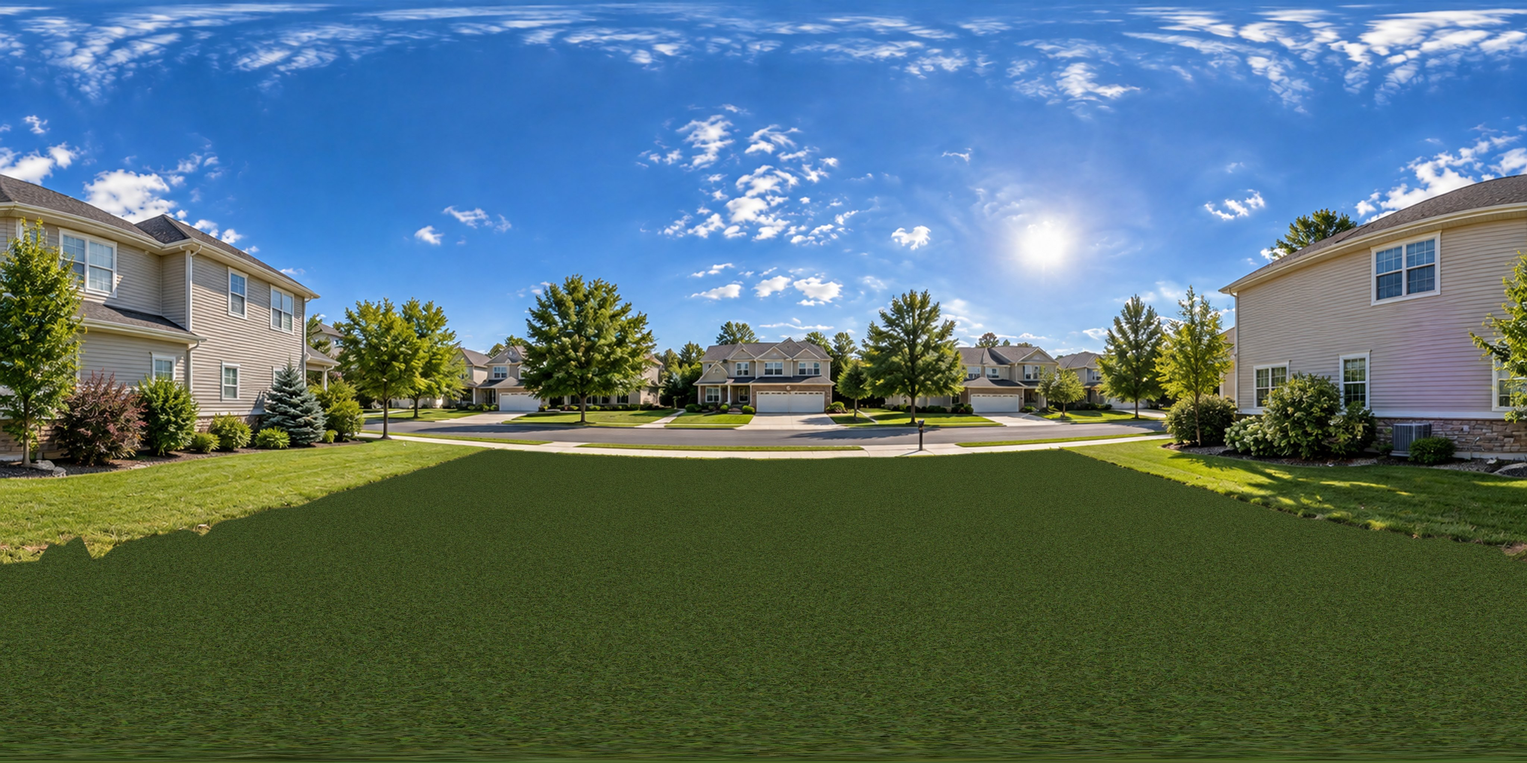
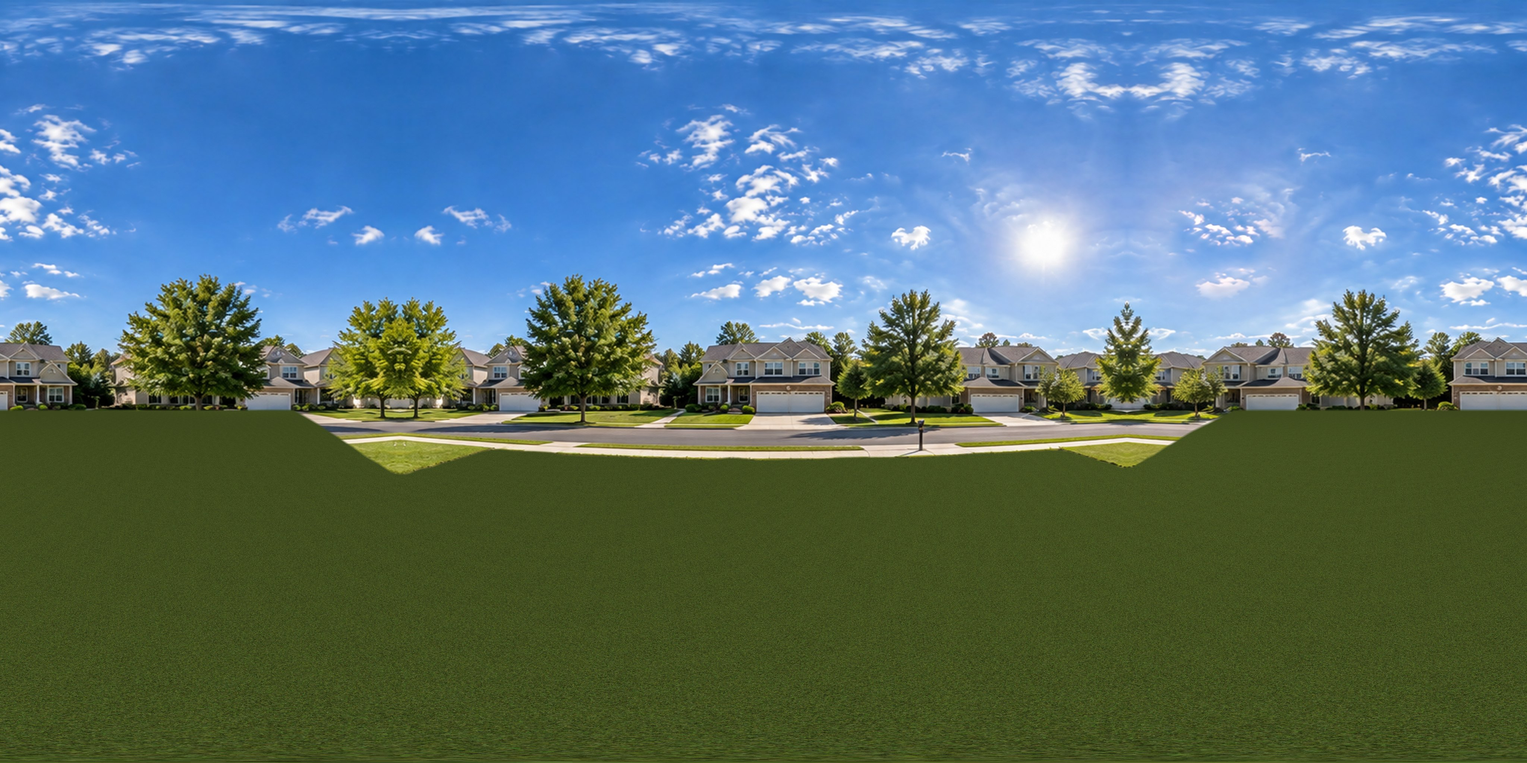
Backdrop: one straight street in front, life-size neighbours, nothing stretched
The panorama was projected on a sphere with a flat floor, which smeared the
houses beside the lot across the ground, put the street under the 3D lawn and
made the near neighbours loom over the house.

- New photo stage: the photo's ground lies flat at its true distance, and
  houses, trees and hedges stand upright where their bases are (groundEdge in
  backdrop.json), all at one scale (the photo's natural 3x, more for big
  houses) so nothing stretches.
- One straight street across the front with the houses across it; behind and
  beside the lot, lawn runs to the neighbouring houses (no second street).
- The street-facing half of the photo is mirrored to the back so the
  oversized side houses are gone; the copied sun is removed.
- The photo's own 8K ground is used near the house with a shadow layer, so
  the street and sidewalk stay visible and there is no lawn circle.
- The camera stays in front of the photo's houses in every direction.
- Backdrop processing scripts and notes live in scripts/backdrop.

Claude-Session: https://claude.ai/code/session_01TXP7QpBZQ5zp5Z5N19pwHL

diff --git a/website/web/backdrop.ts b/website/web/backdrop.ts
@@ -33,7 +33,7 @@ if(d.y<0.)sky=horizon;gl_FragColor=vec4(sky,1.);
 // {"image":"street-8k.jpg","mobileImage":"street-4k.jpg","height":5.5,"radius":320,"rotation":0,"ground":"lawn","credit":"…"}
 // height = camera height of the photo in feet, radius = how far its ground reaches, rotation in degrees;
 // ground "photo" keeps the photograph's own ground under the house (shadows only), "lawn" lays sod over it.
-type Photo={image:string,mobileImage?:string,height:number,radius:number,rotation:number,ground:'lawn'|'photo',groundTexture?:string,groundTile:number,groundRadius?:number,credit:string};
+type Photo={image:string,mobileImage?:string,height:number,radius:number,rotation:number,ground:'lawn'|'photo',groundTexture?:string,groundTile:number,groundRadius?:number,groundEdge?:[number,number][],lotEdge:number,scale:number,credit:string};
 let photoRequest:Promise<{spec:Photo,texture:T.Texture,sun:T.Vector3|null}|null>|null=null;
 let loadedPhoto:{spec:Photo,texture:T.Texture,sun:T.Vector3|null}|null=null;
 const environments=new WeakMap<T.WebGLRenderer,T.WebGLRenderTarget>();
@@ -41,7 +41,8 @@ function parsePhoto(raw:any):Photo|null{
  const file=(v:unknown)=>typeof v==='string'&&/^[\w.-]{1,80}\.(jpe?g|webp|png)$/i.test(v);
  const num=(v:unknown,lo:number,hi:number,fallback:number)=>typeof v==='number'&&Number.isFinite(v)&&v>=lo&&v<=hi?v:fallback;
  if(!raw||typeof raw!=='object'||!file(raw.image))return null;
- return {image:raw.image,mobileImage:file(raw.mobileImage)?raw.mobileImage:undefined,height:num(raw.height,1,40,5.5),radius:num(raw.radius,60,900,320),rotation:num(raw.rotation,-360,360,0),ground:raw.ground==='photo'?'photo':'lawn',groundTexture:file(raw.groundTexture)?raw.groundTexture:undefined,groundTile:num(raw.groundTile,1,100,14),groundRadius:typeof raw.groundRadius==='number'?num(raw.groundRadius,30,900,0)||undefined:undefined,credit:typeof raw.credit==='string'?raw.credit.slice(0,200):''};
+ const edge=Array.isArray(raw.groundEdge)&&raw.groundEdge.length>=3&&raw.groundEdge.length<=400&&raw.groundEdge.every((p:unknown)=>Array.isArray(p)&&p.length===2&&p.every(v=>typeof v==='number'&&Number.isFinite(v))&&p[0]>=0&&p[0]<=1&&p[1]>=1&&p[1]<=60)?[...raw.groundEdge].sort((a:number[],b:number[])=>a[0]!-b[0]!) as [number,number][]:undefined;
+ return {lotEdge:num(raw.lotEdge,1,60,17.5),scale:num(raw.scale,1,10,1.6),groundEdge:edge,image:raw.image,mobileImage:file(raw.mobileImage)?raw.mobileImage:undefined,height:num(raw.height,1,40,5.5),radius:num(raw.radius,60,900,320),rotation:num(raw.rotation,-360,360,0),ground:raw.ground==='photo'?'photo':'lawn',groundTexture:file(raw.groundTexture)?raw.groundTexture:undefined,groundTile:num(raw.groundTile,1,100,14),groundRadius:typeof raw.groundRadius==='number'?num(raw.groundRadius,30,900,0)||undefined:undefined,credit:typeof raw.credit==='string'?raw.credit.slice(0,200):''};
 }
 function requestPhoto(mobile:boolean){
  photoRequest??=fetch('/backdrop/backdrop.json',{cache:'no-cache'}).then(r=>r.ok?r.json():null).then(async raw=>{const spec=parsePhoto(raw);if(!spec)return null;
@@ -64,8 +65,54 @@ function photoSun(texture:T.Texture,rotation:number):T.Vector3|null{
 }
 function fadeMap(textures:T.Texture[],inner=.55){const cvs=document.createElement('canvas');cvs.width=cvs.height=256;const ctx=cvs.getContext('2d')!;const g=ctx.createRadialGradient(128,128,40,128,128,128);g.addColorStop(0,'#fff');g.addColorStop(inner,'#fff');g.addColorStop(1,'#000');ctx.fillStyle=g;ctx.fillRect(0,0,256,256);const t=new T.CanvasTexture(cvs);textures.push(t);return t;}
 
+/** Depression angle (degrees below the horizon) where the photo's ground ends at image column u: the base of
+ * the houses, trees and bushes in that direction. Linear between the measured points, wrapping around. */
+function groundEdgeAt(edge:[number,number][],u:number){u=((u%1)+1)%1;for(let i=0;i<edge.length;i++){const a=edge[i]!,b=edge[(i+1)%edge.length]!;const ub=i+1<edge.length?b[0]:b[0]+1;const uu=u<a[0]?u+1:u;if(uu>=a[0]&&uu<=ub)return a[1]+(b[1]-a[1])*(uu-a[0])/Math.max(1e-6,ub-a[0]);}return edge[0]![1];}
+/** Panorama streets run at a constant angle below the horizon, which would lay the street in front of the
+ * lot out as an arc. Pushing each front direction out by 1/cos straightens it into one straight street across
+ * the front (the photo's front is +x before rotation); behind and beside the lot there is no street, and the
+ * stretch eases back to none at the rear. */
+function blockShape(dx:number,_dz:number){return dx>0?1/Math.max(dx,.4):1+1.5*(1+dx)**2;}
+/** A photo "stage": the panorama's ground lies flat at its true distance from the camera, and everything
+ * standing on it (houses, trees, hedges) rises on an upright wall where it actually stands, all scaled by one
+ * factor so nothing stretches. Seen from the photo's camera it is the photograph; from anywhere else the
+ * street stays on the ground and the neighbours stay upright. */
+function photoStage(texture:T.Texture,spec:Photo,scale:number,mobile:boolean){
+ const edge=spec.groundEdge!,h=spec.height*scale,cols=mobile?160:320,deg=Math.PI/180;
+ const rows:number[]=[];for(let b=-89.8;b<-32;b+=2)rows.push(b);for(let b=-32;b<14;b+=mobile?.5:.25)rows.push(b);for(let b=14;b<60;b+=2)rows.push(b);for(let b=60;b<=90.01;b+=3)rows.push(Math.min(b,89.9));
+ const pos:number[]=[],uv:number[]=[],index:number[]=[];
+ for(let i=0;i<=cols;i++){const u=i/cols,phi=u*Math.PI*2,dx=-Math.cos(phi),dz=-Math.sin(phi),tb=groundEdgeAt(edge,u)*deg,wall=h/Math.tan(tb),k=blockShape(dx,dz);
+  for(const b of rows){const beta=b*deg;let r:number,y:number;
+   if(beta<-tb){r=h/Math.tan(-beta);y=0;}
+   else if(b<=60){r=wall;y=h+wall*Math.tan(beta);}
+   else{const t=(b-60)/30;r=wall*(1-t);y=h+wall*Math.tan(60*deg)+wall*.6*t;}
+   // Ground and walls follow a rounded square so the streets run straight along the block; heights keep
+   // the photo's own distance so the houses keep their size.
+   pos.push(dx*r*k,y,dz*r*k);uv.push(u,.5+beta/Math.PI);}}
+ const n=rows.length;for(let i=0;i<cols;i++)for(let j=0;j<n-1;j++){const a=i*n+j,b=(i+1)*n+j;index.push(a,b,a+1,b,b+1,a+1);}
+ const geo=new T.BufferGeometry();geo.setAttribute('position',new T.Float32BufferAttribute(pos,3));geo.setAttribute('uv',new T.Float32BufferAttribute(uv,2));geo.setIndex(index);
+ const mesh=new T.Mesh(geo,new T.MeshBasicMaterial({map:texture,side:T.DoubleSide,fog:false}));mesh.rotation.y=spec.rotation*Math.PI/180;mesh.name='Photo surroundings';mesh.userData.backdrop=true;return mesh;
+}
+/** How far the photo's world reaches in a world direction (x, z), and the scale that keeps a lot clear of the
+ * street and the neighbours: the house's footprint plus a yard must fit inside the photo's own lot edge. */
+function stageFit(spec:Photo,site:{minX:number,minZ:number,maxX:number,maxZ:number}){
+ const edge=spec.groundEdge!,rot=spec.rotation*Math.PI/180,deg=Math.PI/180;
+ const uOf=(x:number,z:number)=>{const c=Math.cos(-rot),s=Math.sin(-rot);const lx=x*c+z*s,lz=-x*s+z*c;return ((Math.atan2(-lz,-lx)/(Math.PI*2))%1+1)%1;};
+ // The photo's own scale (its far houses life-size) is the floor; a big house pushes everything out further.
+ let scale=spec.scale;
+ for(let k=0;k<96;k++){const a=k/96*Math.PI*2,x=Math.cos(a),z=Math.sin(a);
+  const tx=x>1e-6?site.maxX/x:x<-1e-6?site.minX/x:Infinity,tz=z>1e-6?site.maxZ/z:z<-1e-6?site.minZ/z:Infinity;const need=Math.min(tx,tz)+10;
+  const u=uOf(x,z),ph=u*Math.PI*2,lot=spec.height*blockShape(-Math.cos(ph),-Math.sin(ph))/Math.tan(Math.max(groundEdgeAt(edge,u),spec.lotEdge)*deg);scale=Math.max(scale,need/lot);}
+ scale=Math.min(scale,8);
+ // A lone tree trunk standing nearer than the houses behind it shouldn't hold the camera back.
+ const open=(u:number)=>{let a=90;for(let k=-6;k<=6;k++)a=Math.min(a,groundEdgeAt(edge,u+k*.002));return a;};
+ const reach=(x:number,z:number)=>{const u=uOf(x,z),ph=u*Math.PI*2;return spec.height*scale*blockShape(-Math.cos(ph),-Math.sin(ph))/Math.tan(open(u)*deg);};
+ let far=0;for(let k=0;k<96;k++){const a=k/96*Math.PI*2;far=Math.max(far,reach(Math.cos(a),Math.sin(a)));}
+ return {scale,reach,far,lot:spec.height*scale/Math.tan(spec.lotEdge*deg)};
+}
+
 /** Lawn, hills and, once available, the installed photograph. `site` is the lot in world feet. */
-export function addSurroundings(scene:T.Scene,root:T.Object3D,o:{site:{minX:number,minZ:number,maxX:number,maxZ:number},groundY:number,mobile:boolean,textures:T.Texture[],grass:T.MeshStandardMaterial,renderer:T.WebGLRenderer,sky:T.Object3D,alive:()=>boolean,wake:(content?:boolean)=>void,onPhoto?:(sun:T.Vector3|null,radius:number)=>void}){
+export function addSurroundings(scene:T.Scene,root:T.Object3D,o:{site:{minX:number,minZ:number,maxX:number,maxZ:number},groundY:number,mobile:boolean,textures:T.Texture[],grass:T.MeshStandardMaterial,renderer:T.WebGLRenderer,sky:T.Object3D,alive:()=>boolean,wake:(content?:boolean)=>void,onPhoto?:(sun:T.Vector3|null,radius:number,reach?:(x:number,z:number)=>number)=>void}){
  const {groundY:gy,textures}=o;const group=new T.Group();group.name='Surroundings';root.add(group);
  const grassRepeat=(mat:T.MeshStandardMaterial,size:number)=>{for(const key of ['map','normalMap','roughnessMap'] as const){const t=(o.grass as any)[key] as T.Texture|null;if(t){const c=t.clone();c.repeat.set(size/4.59,size/4.59);textures.push(c);(mat as any)[key]=c;}}return mat;};
  // Painted fallback: a broad lawn with gentle color variation and smooth hills lost in the haze.
@@ -81,9 +128,13 @@ export function addSurroundings(scene:T.Scene,root:T.Object3D,o:{site:{minX:numb
  const usePhoto=(photo:{spec:Photo,texture:T.Texture,sun:T.Vector3|null})=>{if(!o.alive())return;
   // Neighbouring houses in the photo look life-size when its sphere is about as far away as they were from the
   // camera; a large design pushes the sphere out (and the lawn with it) far enough that the camera can frame the whole house.
-  const lot=o.site,sphere=Math.max(photo.spec.radius,Math.hypot(lot.maxX-lot.minX,lot.maxZ-lot.minZ)/2*5.4),grow=sphere/photo.spec.radius;
-  const box=new GroundedSkybox(photo.texture,photo.spec.height,sphere,o.mobile?64:128);box.position.y=gy+photo.spec.height-.01;box.rotation.y=photo.spec.rotation*Math.PI/180;box.name='Photo surroundings';box.userData.backdrop=true;(box.material as T.MeshBasicMaterial).fog=false;group.add(box);
-  const {minX,minZ,maxX,maxZ}=o.site,wide=photo.spec.groundRadius&&Math.min(photo.spec.groundRadius*grow,sphere*.95),cx=wide?0:(minX+maxX)/2,cz=wide?0:(minZ+maxZ)/2,radius=wide??Math.hypot(maxX-minX,maxZ-minZ)/2+60;
+  const lot=o.site,fit=photo.spec.groundEdge?stageFit(photo.spec,lot):null;
+  let sphere:number,grow:number;
+  if(fit){const stage=photoStage(photo.texture,photo.spec,fit.scale,o.mobile);stage.position.y=gy-.02;group.add(stage);sphere=fit.far;grow=1;}
+  else{sphere=Math.max(photo.spec.radius,Math.hypot(lot.maxX-lot.minX,lot.maxZ-lot.minZ)/2*5.4);grow=sphere/photo.spec.radius;
+   const box=new GroundedSkybox(photo.texture,photo.spec.height,sphere,o.mobile?64:128);box.position.y=gy+photo.spec.height-.01;box.rotation.y=photo.spec.rotation*Math.PI/180;box.name='Photo surroundings';box.userData.backdrop=true;(box.material as T.MeshBasicMaterial).fog=false;group.add(box);}
+  // On a stage the lawn covers only the lot, stopping short of the sidewalk so the street stays in view.
+  const {minX,minZ,maxX,maxZ}=o.site,wide=fit?fit.lot*.97:photo.spec.groundRadius&&Math.min(photo.spec.groundRadius*grow,sphere*.95),cx=wide?0:(minX+maxX)/2,cz=wide?0:(minZ+maxZ)/2,radius=wide??Math.hypot(maxX-minX,maxZ-minZ)/2+60;
   // The lot itself: the photo's ground stretches into a blur close to the camera, so a tiling texture of the
   // same ground (or a lawn) covers the lot and fades into the photograph; shadows fall on it either way.
   let pad:T.Material;
@@ -100,7 +151,7 @@ export function addSurroundings(scene:T.Scene,root:T.Object3D,o:{site:{minX:numb
   const disc=new T.Mesh(discGeometry,pad);disc.position.set(cx,gy+.01,cz);disc.receiveShadow=true;disc.name='Lot lawn';group.add(disc);
   painted.visible=false;o.sky.visible=false;scene.fog=null;
   let env=environments.get(o.renderer);if(!env){const pm=new T.PMREMGenerator(o.renderer);env=pm.fromEquirectangular(photo.texture);pm.dispose();env.texture.userData.persistent=true;environments.set(o.renderer,env);}
-  scene.environment=env.texture;scene.environmentIntensity=.9;scene.userData.photoEnvironment=true;scene.userData.photoBackdrop=true;scene.userData.photoSun=photo.sun;scene.userData.photoRadius=sphere;o.onPhoto?.(photo.sun,sphere);o.wake(true);};
+  scene.environment=env.texture;scene.environmentIntensity=.9;scene.userData.photoEnvironment=true;scene.userData.photoBackdrop=true;scene.userData.photoSun=photo.sun;scene.userData.photoRadius=sphere;scene.userData.photoReach=fit?.reach;o.onPhoto?.(photo.sun,sphere,fit?.reach);o.wake(true);};
  if(loadedPhoto)usePhoto(loadedPhoto);else requestPhoto(o.mobile).then(p=>{if(p)usePhoto(p);});
  return group;
 }

diff --git a/website/web/scene.ts b/website/web/scene.ts
@@ -34,7 +34,7 @@ const wallpapers=catalog.wallpapers;
 export function renderHouse(el:HTMLElement,payload:any){const {config,model:m,view,jump,frameRoof,frameOpening}=payload;const keys={current:new Set<string>()};let editTarget:any=null;
  const w=m.w,d=m.d,h=m.h,walk=view==='walk',cut=view==='dollhouse',frame=view==='framing',interior=m.interior,trimPackage=m.trimPackage,homeStyle=m.homeStyle;const walls:T.Box3[]=[];
  let renderer:T.WebGLRenderer;try{renderer=acquireRenderer(el);}catch{el.innerHTML='<div class="webgl-error">WebGL is unavailable in this browser. Use the floor plan and reports to continue.</div>';return;}T.Cache.enabled=false;renderer.shadowMap.enabled=true;renderer.shadowMap.type=T.PCFSoftShadowMap;renderer.toneMapping=T.ACESFilmicToneMapping;renderer.toneMappingExposure=1.05;renderer.setClearColor('#8abfe4');el.appendChild(renderer.domElement);
- let aimAtPhotoSun:((dir:T.Vector3|null)=>void)|null=null,limitOrbit:((radius:number)=>void)|null=null;
+ let aimAtPhotoSun:((dir:T.Vector3|null)=>void)|null=null,limitOrbit:((radius:number,reach?:(x:number,z:number)=>number)=>void)|null=null;
  const scene=new T.Scene();const skyDome=addSky(scene);
  // Render on demand: draw while the camera, keys or loads change something, then go idle. Shadows are
  // recomputed only when the scene's content changes, not every frame.
@@ -75,7 +75,7 @@ export function renderHouse(el:HTMLElement,payload:any){const {config,model:m,vi
  // A true entry stoop and walkway, grounded by real-time shadows.
  const character=m.character,shutterTone=shutterColor(config.colors.siding||'#cccccc');
  const front=m.walls.find((wall:any)=>wall.exterior&&wall.axis==='x'&&wall.z===0&&wall.openings.some((o:any)=>o.kind==='door'));const hasEntry=!!front;const frontDoor=front?.openings.find((o:any)=>o.kind==='door');const entry={at:frontDoor?front.x+frontDoor.at:w/2-1.5};if(hasEntry){box(entry.at+1.5,-.32,-2.5,Math.min(8,w*.65),.6,5,material('#a3a494',.85));box(entry.at+1.5,-.53,-10,4,.15,8,material('#8d9488',.95));}
- if(groundHere){const site=bounds||{minX:0,minZ:0,maxX:w,maxZ:d};addSurroundings(mainScene,scene,{site:{minX:site.minX-w/2,minZ:site.minZ-d/2,maxX:site.maxX-w/2,maxZ:site.maxZ-d/2},groundY:frame?-1.85:-.55,mobile:mobileGraphics(),textures,grass:ground,renderer,sky:skyDome,alive:()=>active,wake:(content=false)=>wake(content),onPhoto:(dir,radius)=>{aimAtPhotoSun?.(dir);limitOrbit?.(radius);}});}
+ if(groundHere){const site=bounds||{minX:0,minZ:0,maxX:w,maxZ:d};addSurroundings(mainScene,scene,{site:{minX:site.minX-w/2,minZ:site.minZ-d/2,maxX:site.maxX-w/2,maxZ:site.maxZ-d/2},groundY:frame?-1.85:-.55,mobile:mobileGraphics(),textures,grass:ground,renderer,sky:skyDome,alive:()=>active,wake:(content=false)=>wake(content),onPhoto:(dir,radius,reach)=>{aimAtPhotoSun?.(dir);limitOrbit?.(radius,reach);}});}
  const thickness=5.5/12,wh=cut?4.1:h;const tiledMaterial=(base:T.MeshStandardMaterial,length:number,height:number,start:number,bottom:number,tile:number)=>{const mat=base.clone();for(const key of ['map','normalMap','roughnessMap','bumpMap'] as const){const tx=base[key]?.clone();if(tx){tx.repeat.set(length/tile,height/tile);tx.offset.set(start/tile,bottom/tile);if((tx.image as any)?.width)tx.needsUpdate=true;mat[key]=tx;textures.push(tx)}}return mat;};const wallPaint=(length:number,height:number,start:number,bottom:number)=>tiledMaterial(paint,length,height,start,bottom,3.28);
 
  function wallBox(wall:Wall,start:number,length:number,bottom:number,height:number){
@@ -214,7 +214,12 @@ export function renderHouse(el:HTMLElement,payload:any){const {config,model:m,vi
  envScale=applyLook(style,{scene,renderer,sun,hemi,ambient,sky:skyDome,glass,span,h,groundY:frame?-1.85:-.55,indoor:walk,site:{minX:site.minX-w/2,minZ:site.minZ-d/2,maxX:site.maxX-w/2,maxZ:site.maxZ-d/2}});scene.environmentIntensity*=envScale;
  if(mainScene.userData.photoSun)aimAtPhotoSun(mainScene.userData.photoSun);
  // The camera stays inside the photograph's sphere (outside it there is no backdrop to see).
- limitOrbit=(radius:number)=>{if(walk||!radius)return;const max=radius*.95;orbit.maxDistance=Math.min(orbit.maxDistance,max);const offset=camera.position.clone().sub(orbit.target);if(offset.length()>max){camera.position.copy(orbit.target).addScaledVector(offset.normalize(),max);orbit.update();}wake();};
+ // On a photo stage the camera stays in front of the photo's houses and trees: each direction has its own
+ // reach (the neighbours beside the lot are closer than the houses across the street).
+ let stageReach:((x:number,z:number)=>number)|null=null,clamping=false;
+ const clampToStage=()=>{if(!stageReach||walk||clamping)return;const p=camera.position,r=Math.hypot(p.x,p.z),lim=stageReach(p.x,p.z)*.9;if(r>lim&&r>1e-3){clamping=true;p.x*=lim/r;p.z*=lim/r;orbit.update();clamping=false;}};
+ orbit.addEventListener('change',clampToStage);
+ limitOrbit=(radius:number,reach?:(x:number,z:number)=>number)=>{if(walk||!radius)return;const max=radius*.95;orbit.maxDistance=Math.min(orbit.maxDistance,max);const offset=camera.position.clone().sub(orbit.target);if(offset.length()>max){camera.position.copy(orbit.target).addScaledVector(offset.normalize(),max);orbit.update();}stageReach=reach||null;clampToStage();wake();};
  const fx=payload.exportOnly?null:createPostFX(style,renderer,scene,camera,mobileGraphics());const raster=()=>{if(fx)fx.render();else renderer.render(scene,camera);};
  // Photoreal: a short burst of jittered frames (soft sun, anti-aliasing, contact shadows) blended when the
  // camera rests; the normal view is drawn while it moves.
@@ -224,7 +229,7 @@ export function renderHouse(el:HTMLElement,payload:any){const {config,model:m,vi
  let firstContent=true;
  const draw=()=>{if(contentDirty){refreshLook(style,scene);if(photo&&!firstContent)photo.contentChanged();firstContent=false;}contentDirty=false;
   if(photo){camera.updateMatrixWorld();if(!camera.matrixWorld.equals(lastView)){lastView.copy(camera.matrixWorld);photo.cameraMoved();raster();wake();return;}if(photo.render())wake();}else raster();};
- let firstFit=!walk&&!payload.cameraPose&&!frameOpening;const resize=()=>{if(!el.clientWidth||!el.clientHeight)return;renderer.setSize(el.clientWidth,el.clientHeight);fx?.setSize(el.clientWidth,el.clientHeight);photo?.setSize();camera.aspect=el.clientWidth/el.clientHeight;camera.updateProjectionMatrix();if(firstFit){fitHouseCamera(camera,orbit,m,config,view,el.clientWidth,el.clientHeight);firstFit=false;if(mainScene.userData.photoRadius)limitOrbit?.(mainScene.userData.photoRadius);}};const ro=new ResizeObserver(()=>{resize();wake();});orbit.addEventListener('change',()=>wake());
+ let firstFit=!walk&&!payload.cameraPose&&!frameOpening;const resize=()=>{if(!el.clientWidth||!el.clientHeight)return;renderer.setSize(el.clientWidth,el.clientHeight);fx?.setSize(el.clientWidth,el.clientHeight);photo?.setSize();camera.aspect=el.clientWidth/el.clientHeight;camera.updateProjectionMatrix();if(firstFit){fitHouseCamera(camera,orbit,m,config,view,el.clientWidth,el.clientHeight);firstFit=false;if(mainScene.userData.photoRadius)limitOrbit?.(mainScene.userData.photoRadius,mainScene.userData.photoReach);}};const ro=new ResizeObserver(()=>{resize();wake();});orbit.addEventListener('change',()=>wake());
  // Wheel zoom only after the visitor clicks into the 3D view (or holds Ctrl/⌘), so the page keeps scrolling.
  const hint=document.createElement('div');hint.className='scene-zoom-hint';hint.textContent='Click the model to zoom and pan with scroll · or hold Ctrl / ⌘';el.appendChild(hint);let hintTimer=0;orbit.enableZoom=walk;
  const engage=()=>{orbit.enableZoom=true;},disengage=()=>{orbit.enableZoom=false;},wheelGate=(e:WheelEvent)=>{if(e.ctrlKey||e.metaKey){orbit.enableZoom=true;return;}if(!orbit.enableZoom){hint.classList.add('show');clearTimeout(hintTimer);hintTimer=window.setTimeout(()=>hint.classList.remove('show'),1400);return;}

diff --git a/website/scripts/backdrop/lawn_lot.py b/website/scripts/backdrop/lawn_lot.py
@@ -1,0 +1,56 @@
+import numpy as np,sys
+from PIL import Image, ImageFilter
+src=Image.open(sys.argv[1]).convert('RGB');out_dir=sys.argv[2];prev=sys.argv[3]
+W,H=src.size;k=W//4096
+up=src  # full-resolution original: no resampling
+a=np.asarray(up).astype(np.float32)/255
+r,g,b=a[...,0],a[...,1],a[...,2];mx=a.max(-1);mn=a.min(-1);d=mx-mn+1e-6
+hue=np.where(mx==r,((g-b)/d)%6,np.where(mx==g,(b-r)/d+2,(r-g)/d+4))*60;sat=d/(mx+1e-6)
+dirtpx=(hue>10)&(hue<52)&(sat>.22)
+horizon=H//2
+start=np.zeros(W,np.float32)
+# The lot is the dirt that runs from some row down to the nadir: find, per column, the first row
+# below which the column stays dirt-coloured (ignores beige siding and stray brown patches).
+lo,hi=horizon+20,H-40
+for x in range(W):
+    col=dirtpx[lo:hi,x].astype(float);run=np.convolve(np.pad(col,12*k,mode='edge'),np.ones(25*k)/(25*k),mode='valid')
+    ok=run>0.55;tail=np.flip(np.cumprod(np.flip(ok)))  # rows from which everything below is dirt-ish
+    idx=np.where(tail>0)[0];start[x]=lo+(idx.min() if len(idx) else hi-lo)
+p=np.pad(start,30*k,mode='wrap');start=np.array([np.median(p[i:i+61*k]) for i in range(W)],np.float32)
+kk=np.ones(31*k)/(31*k);start=np.convolve(np.pad(start,(31*k//2,31*k-1-31*k//2),mode='wrap'),kk,mode='valid')-4*k
+# Behind and beside the lot (outside the street-facing span) there is no street: lawn runs from the lot up to
+# the neighbours' houses, whose bases sit about 6 degrees below the horizon. Ramp in over a few degrees.
+sa,sb=0.262,0.738;u=(np.arange(W)+.5)/W
+dout=np.minimum(np.abs(((u-sa+.5)%1)-.5),np.abs(((u-sb+.5)%1)-.5))
+inside=(u>sa)&(u<sb)
+ramp=np.where(inside,0.,np.clip(dout/0.07,0,1))**1.5
+far=horizon+6.4/180*H
+start=start*(1-ramp)+np.minimum(start,far)*ramp
+g=Image.open('public/materials/grass-diff.jpg').convert('RGB');gw=g.width
+mips=[np.asarray(g).astype(np.float32)/255]
+while mips[-1].shape[0]>8:
+    t=Image.fromarray((mips[-1]*255).astype(np.uint8));mips.append(np.asarray(t.resize((t.width//2,t.height//2),Image.LANCZOS)).astype(np.float32)/255)
+cam=5.5*3;tile=4.59
+ys=np.arange(horizon+1,H);xs=np.arange(W);phi=(xs+.5)/W*2*np.pi
+theta=((ys+.5)/H-.5)*np.pi;dist=cam/np.tan(theta)
+dx=-np.cos(phi);dz=-np.sin(phi);grass=np.zeros((len(ys),W,3),np.float32)
+for i,dd in enumerate(dist):
+    foot=dd*(2*np.pi/W)*max(1,0.5/np.sin(theta[i]));lvl=int(np.clip(np.log2(max(foot/(tile/gw),1)),0,len(mips)-1));m=mips[lvl];mh,mw=m.shape[:2]
+    grass[i]=m[(dz*dd/tile*mh).astype(int)%mh,(dx*dd/tile*mw).astype(int)%mw]
+xx=dx[None,:]*dist[:,None];zz=dz[None,:]*dist[:,None]
+n=.5+.25*np.sin(xx*.021+np.cos(zz*.017)*2)+.25*np.sin(zz*.029+xx*.011);shade=(.88+n*.16)
+grass*=np.stack([shade,shade,shade],-1)
+# Match the photo's sunlit lawns just above the boundary (mean colour), slightly desaturated.
+rows=[];[rows.append(a[horizon+10:int(start[x])-3,x]) for x in range(0,W,3)]
+band=np.concatenate(rows);lawn=band[(band[:,1]>band[:,0]*1.02)&(band[:,1]>band[:,2]*1.15)]
+target=np.array([0.254,0.311,0.104])
+cur=grass[:60].reshape(-1,3).mean(0);grass*=target/np.maximum(cur,1e-3)
+lum=grass.mean(-1,keepdims=True);grass=lum+(grass-lum)*.88
+haze=np.clip(1-(theta[:,None]/0.035),0,1)[:,:,None]*.18;grass=grass*(1-haze)+np.array([.78,.82,.86])*haze
+alpha=np.clip((ys[:,None]-start[None,:])/(7.0*k),0,1)[:,:,None]
+out=a.copy();out[horizon+1:]=a[horizon+1:]*(1-alpha)+grass*alpha
+img=Image.fromarray((np.clip(out,0,1)*255).astype(np.uint8))
+img.save(out_dir+'/neighborhood-lawn-8k.jpg',quality=86,optimize=True,progressive=True)
+img.resize((4096,2048),Image.LANCZOS).save(out_dir+'/neighborhood-lawn-4k.jpg',quality=86,optimize=True,progressive=True)
+img.crop((0,2000,8192,3000)).resize((2048,250),Image.LANCZOS).save(prev,quality=88)
+print('target',target)

diff --git a/website/scripts/backdrop/mirror_street.py b/website/scripts/backdrop/mirror_street.py
@@ -1,0 +1,29 @@
+import numpy as np,sys
+from PIL import Image
+src,out=sys.argv[1],sys.argv[2]
+a,b=0.262,0.738
+im=np.asarray(Image.open(src).convert('RGB')).astype(np.float32)
+H,W,_=im.shape
+xs=(np.arange(W)+.5)/W
+# Columns outside the street-facing span take the span mirrored, so both seams line up.
+span=b-a;back=1-span
+t=((xs-b)%1)/back
+srcu=np.where((xs>=a)&(xs<=b),xs,b-t*span)
+col=np.clip((srcu*W-.5),0,W-1)
+c0=np.floor(col).astype(int);c1=np.minimum(c0+1,W-1);f=(col-c0)[None,:,None]
+out_img=im[:,c0]*(1-f)+im[:,c1]*f
+# The mirror also copies the sun. Replace that copy with sky from 0.16 turn further round (sun-free),
+# brightened to match the glow ring around it, feathered so no edge shows.
+el=(0.5-(np.arange(H)+.5)/H)*180
+sun_u,sun_el=0.684,32.6
+mu=b+(b-sun_u)/span*back
+du=((xs-mu+.5)%1-.5)*360*np.cos(np.radians(sun_el))
+dist=np.sqrt(du[None,:]**2+(el[:,None]-sun_el)**2)
+shift=int(.16*W);fill=np.roll(out_img,-shift,axis=1)
+ring=(dist>13)&(dist<16)
+gain=out_img[ring].mean(0)/np.maximum(fill[ring].mean(0),1)
+fill=fill*gain
+w=np.clip((14-dist)/7,0,1)[:,:,None]
+out_img=out_img*(1-w)+fill*w
+Image.fromarray(np.clip(out_img,0,255).astype(np.uint8)).save(out)
+print('mirrored sun at u',mu)

diff --git a/website/scripts/backdrop/README.md b/website/scripts/backdrop/README.md
@@ -1,0 +1,14 @@
+# Neighborhood backdrop
+
+`public/backdrop/neighborhood-lawn-8k.jpg` (desktop) and `-4k.jpg` (phones) are made from the 8192 × 4096
+original in `backdrop-source/`:
+
+1. `python3 -I scripts/backdrop/mirror_street.py backdrop-source/suburban-infill-lot-8k.png /tmp/mirrored.png`
+   keeps the street-facing half of the photo and mirrors it to the back (removing the copied sun), so the
+   oversized houses that stood right beside the camera are gone.
+2. `python3 -I scripts/backdrop/lawn_lot.py /tmp/mirrored.png public/backdrop /tmp/preview.jpg` repaints the
+   empty lot as lawn, and behind/beside the lot lays lawn up to the houses (no second street).
+
+`backdrop.json` then tells the viewer where the photo's ground ends (`groundEdge`), the near sidewalk angle
+(`lotEdge`) and the photo's natural scale (`scale`) so the street lies flat and straight in front of the
+house and the houses across it stand upright at life size.
